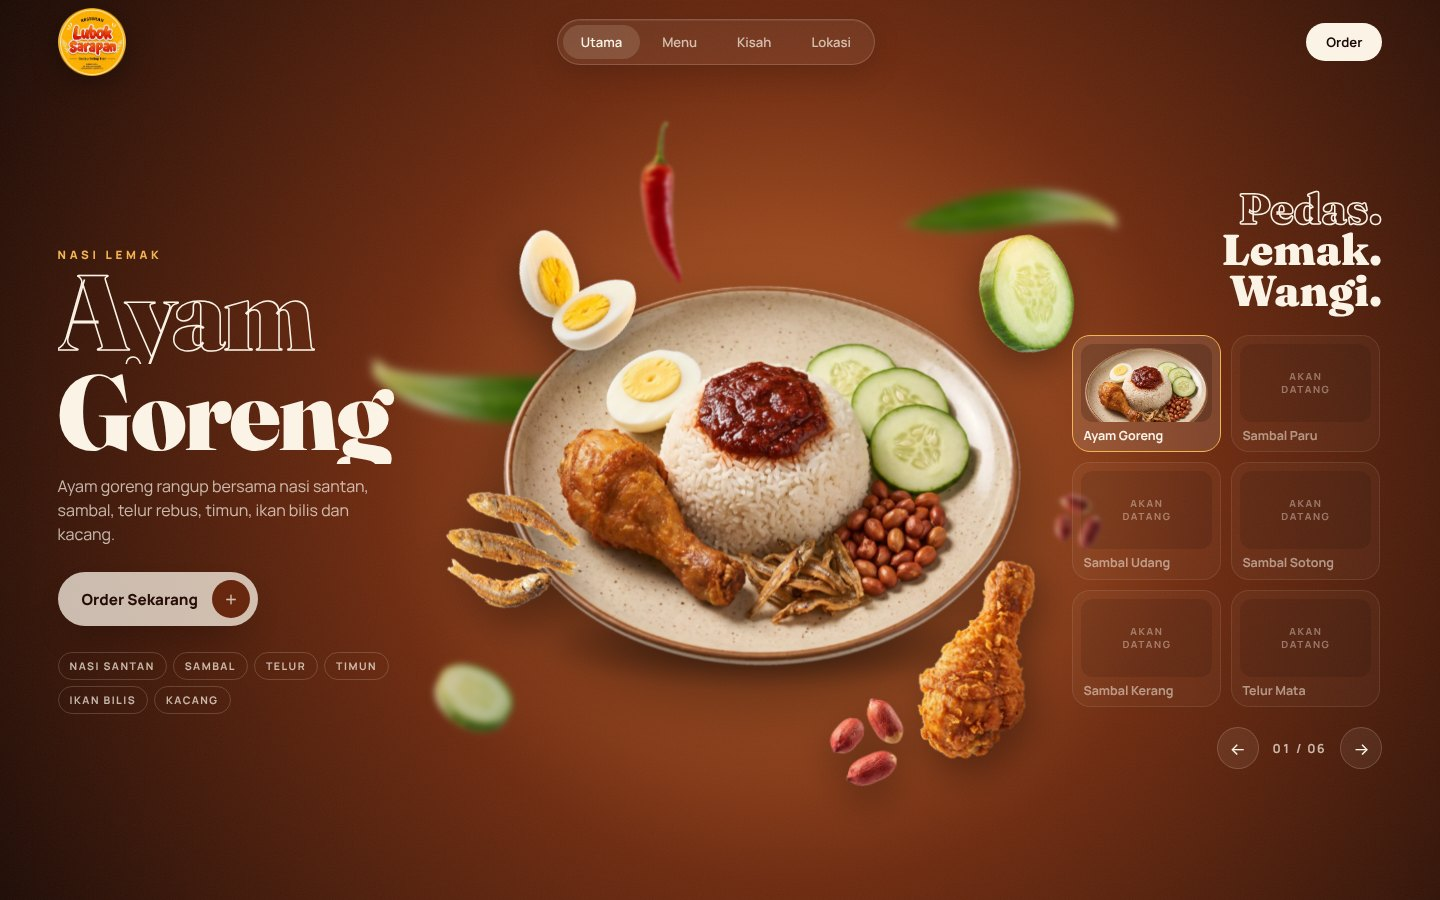
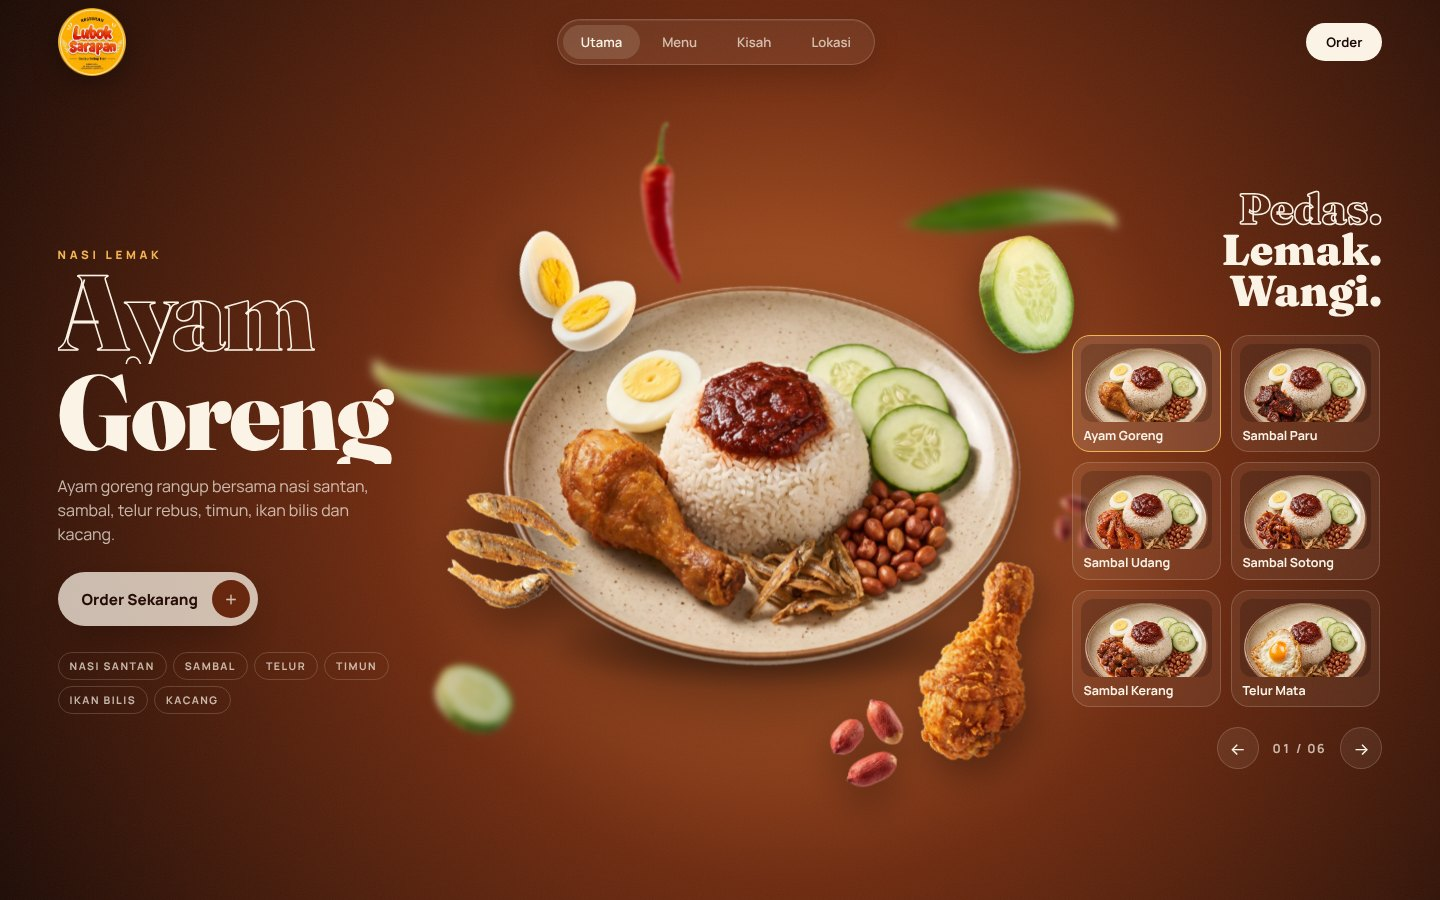
Enable all six menus: paru, udang, sotong, kerang, telur mata plates
Cut-outs of the owner's edited plate photos; telur mata hides the boiled-egg
floater; active menu card scrolls into view on phones.

Claude-Session: https://claude.ai/code/session_01XoEK4SbDaWsgTKLW8z5AvE

diff --git a/src/config/menu.js b/src/config/menu.js
@@ -30,42 +30,44 @@ export const menus = [
   {
     id: 'paru', kicker: 'Nasi Lemak', line1: 'Sambal', line2: 'Paru',
     desc: 'Paru goreng bersalut sambal pekat, dihidang dengan nasi santan dan lauk lengkap.',
-    plate: null, price: null,
+    plate: `${base}hidangan-paru.webp`, price: null,
     colors: { inner: '#a8402c', mid: '#561710', outer: '#160504' },
     signature: { img: 'paru', x: 0.46, y: 0.32, size: 0.3, rot: -18, depth: 1.25, front: true },
   },
   {
     id: 'udang', kicker: 'Nasi Lemak', line1: 'Sambal', line2: 'Udang',
     desc: 'Udang besar dimasak sambal merah berkilat, dengan nasi santan dan lauk lengkap.',
-    plate: null, price: null,
+    plate: `${base}hidangan-udang.webp`, price: null,
     colors: { inner: '#e0663c', mid: '#842a14', outer: '#200905' },
     signature: { img: 'udang', x: 0.46, y: 0.32, size: 0.3, rot: -18, depth: 1.25, front: true },
   },
   {
     id: 'sotong', kicker: 'Nasi Lemak', line1: 'Sambal', line2: 'Sotong',
     desc: 'Sotong lembut dalam sambal pedas manis, dengan nasi santan dan lauk lengkap.',
-    plate: null, price: null,
+    plate: `${base}hidangan-sotong.webp`, price: null,
     colors: { inner: '#bb2a30', mid: '#5c0f16', outer: '#180305' },
     signature: { img: 'sotong', x: 0.46, y: 0.32, size: 0.28, rot: -18, depth: 1.25, front: true },
   },
   {
     id: 'kerang', kicker: 'Nasi Lemak', line1: 'Sambal', line2: 'Kerang',
     desc: 'Kerang segar dimasak sambal, dengan nasi santan dan lauk lengkap.',
-    plate: null, price: null,
+    plate: `${base}hidangan-kerang.webp`, price: null,
     colors: { inner: '#a3613a', mid: '#4d2914', outer: '#130904' },
     signature: { img: 'kerang', x: 0.46, y: 0.32, size: 0.28, rot: -18, depth: 1.25, front: true },
   },
   {
     id: 'telur-mata', kicker: 'Nasi Lemak', line1: 'Telur', line2: 'Mata',
     desc: 'Telur mata goreng bertepi rangup, kuning cair, dengan nasi santan dan sambal.',
-    plate: null, price: null,
+    plate: `${base}hidangan-telur-mata.webp`, price: null,
     colors: { inner: '#dba236', mid: '#835012', outer: '#211204' },
+    exclude: ['telur'], // no boiled egg on this plate
     signature: { img: 'telur-mata', x: 0.46, y: 0.32, size: 0.3, rot: -12, depth: 1.25, front: true },
   },
 ];
 
 export function floatersFor(menu) {
-  return [...common, menu.signature].map((f) => ({ ...f, src: `${base}${f.img}.webp` }));
+  const ex = new Set(menu.exclude || []);
+  return [...common.filter((f) => !ex.has(f.img)), menu.signature].map((f) => ({ ...f, src: `${base}${f.img}.webp` }));
 }
 
 /** Ingredient images that exist (signature images of menus without a photo are skipped). */

diff --git a/src/main.js b/src/main.js
@@ -117,6 +117,12 @@ function setCopy(m) {
   });
   $('#idx').textContent = String(current + 1).padStart(2, '0');
   $$('.card').forEach((c, i) => { c.classList.toggle('is-active', i === current); c.setAttribute('aria-selected', String(i === current)); });
+  // keep the active card visible in the horizontal scroller (phones) without scrolling the page
+  const act = cardsEl.children[current];
+  if (act && cardsEl.scrollWidth > cardsEl.clientWidth) {
+    const left = act.offsetLeft - (cardsEl.clientWidth - act.offsetWidth) / 2;
+    cardsEl.scrollTo({ left: Math.max(0, left), behavior: reduced ? 'auto' : 'smooth' });
+  }
 }
 
 async function show(i, dir = 1) {
